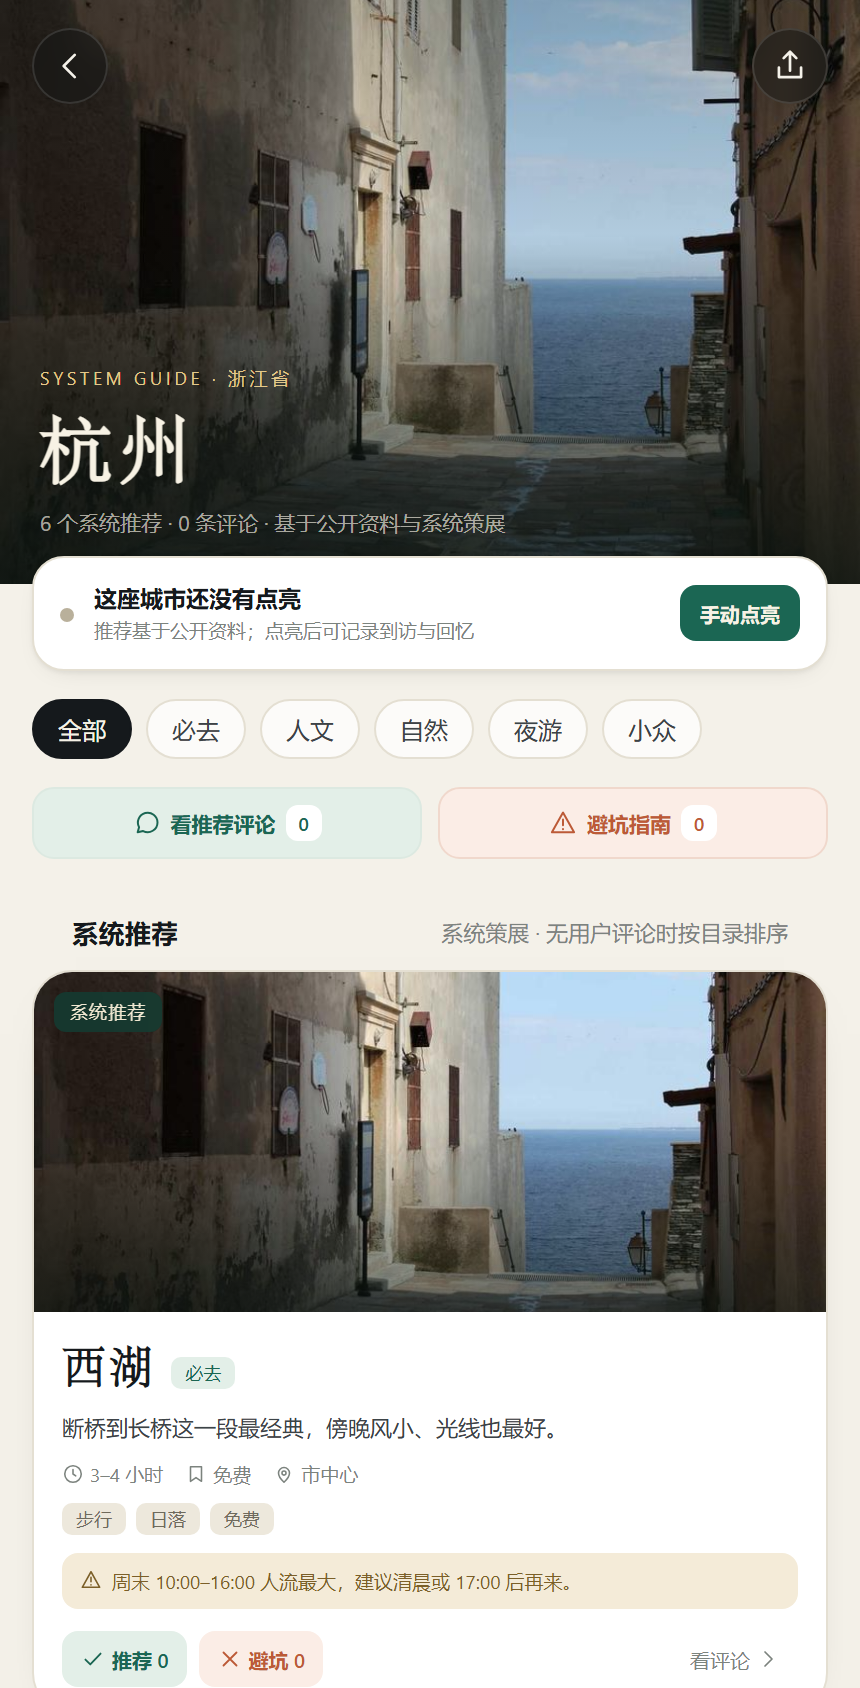
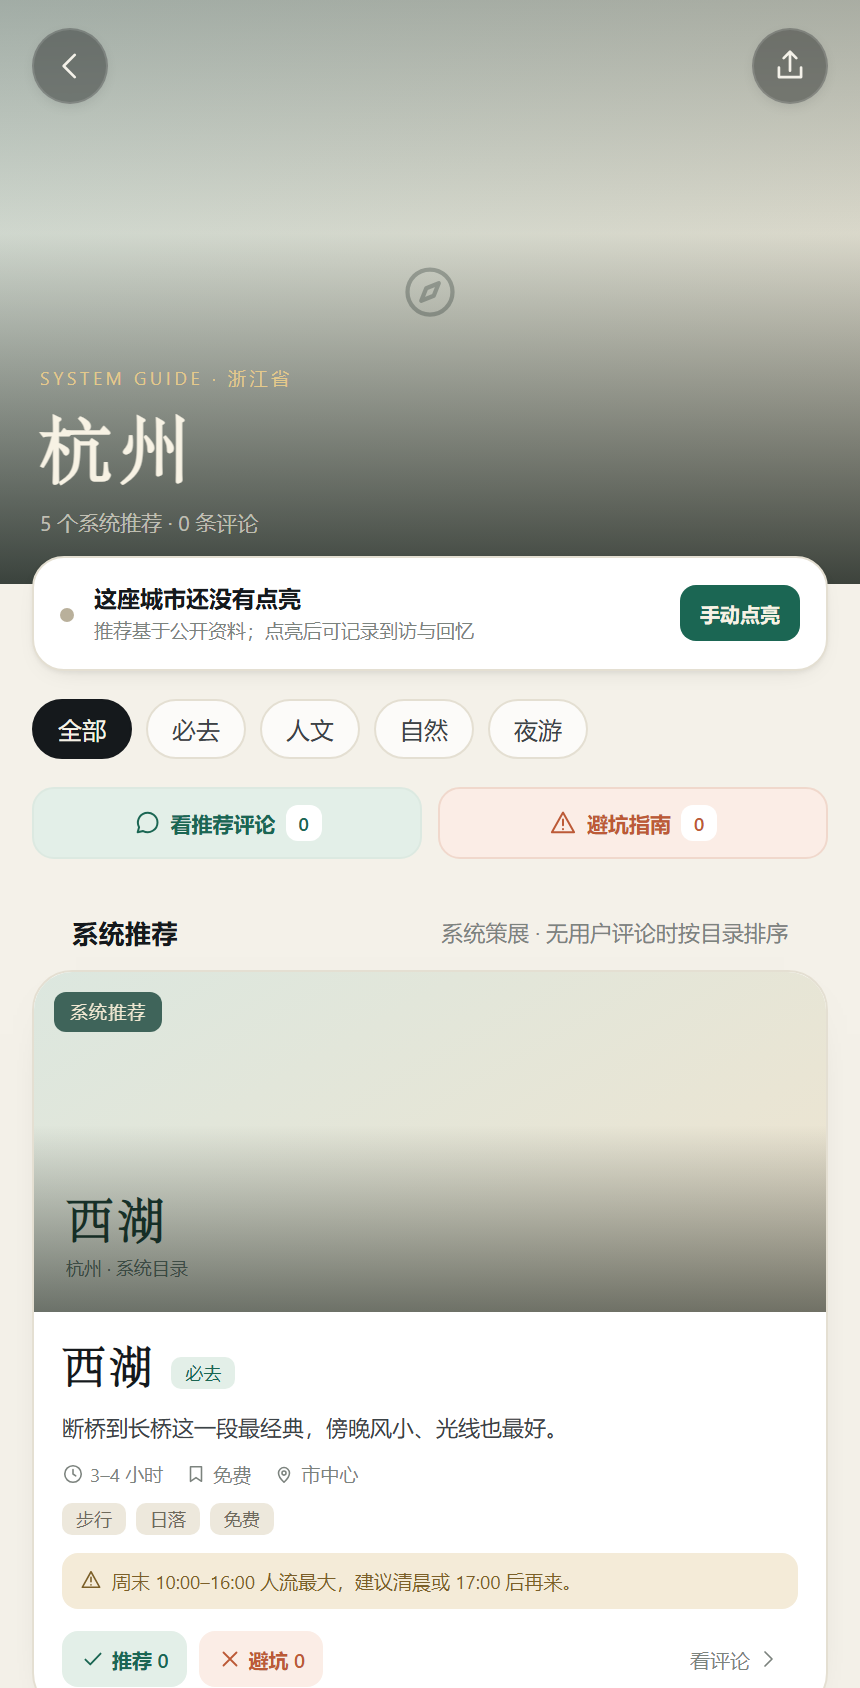
fix: only list verified scenic spots and show no recommendation for others

diff --git a/travelog-app/src/data/scenic.ts b/travelog-app/src/data/scenic.ts
@@ -64,9 +64,6 @@ const CURATED: Record<string, Curated> = {
       ['河坊街', '夜游', 8, 4.2, 1320, '1–2 小时', '免费', '全天（商铺 10:00–22:00）', '市中心',
         ['小吃', '夜逛', '老街'], '主街适合第一次来，真正好逛的是旁边的大井巷和南宋御街。',
         '主街网红小吃偏贵，想吃本地菜往小巷里走。'],
-      ['中国美院象山校区', '小众', 9, 4.7, 640, '1.5–2 小时', '免费（需预约）', '09:00–17:00', '约 12km',
-        ['建筑', '展览', '拍照'], '王澍设计的校园，砖墙和爬山虎很适合慢慢走。',
-        '展馆周一闭馆，进校需要提前预约。'],
       ['龙井村', '自然', 10, 4.4, 720, '2 小时', '免费', '全天', '约 6km',
         ['茶园', '徒步', '喝茶'], '从龙井村走到九溪，沿途是茶园和山坳，适合半日轻徒步。',
         '路边“免费喝茶”多为推销，买茶先问价。'],
@@ -249,9 +246,6 @@ const CURATED: Record<string, Curated> = {
       ['滇池海埂', '自然', 18, 4.4, 960, '2 小时', '免费', '全天', '约 12km',
         ['湖景', '海鸥', '骑行'], '海埂大坝看西山睡美人，冬天海鸥最多。',
         '风大，外套和帽子都带上。'],
-      ['斗南花市', '小众', 2, 4.6, 640, '1–2 小时', '免费', '09:00–次日 02:00', '约 15km',
-        ['鲜花', '夜市', '便宜'], '亚洲最大的鲜切花市场，晚上 8 点后交易最热闹。',
-        '买花注意能不能带上飞机/高铁。'],
     ],
   },
   '530700': {
@@ -329,9 +323,6 @@ const CURATED: Record<string, Curated> = {
       ['大峡谷玻璃桥', '亲子', 3, 4.4, 1400, '半天', '¥128', '08:30–17:00', '约 40km',
         ['玻璃桥', '峡谷', '刺激'], '桥面透明，峡谷景色不错，适合和黄龙洞串线。',
         '桥上不能带自拍杆，雨天可能关闭。'],
-      ['溪布街', '夜游', 4, 4.0, 620, '1 小时', '免费', '全天', '约 30km',
-        ['夜市', '小吃', '住宿'], '武陵源住宿区旁的商业街，晚上吃饭方便。',
-        '餐馆价格偏游客价，往巷子里走。'],
     ],
   },
   '341000': {
@@ -377,9 +368,6 @@ const CURATED: Record<string, Curated> = {
       ['橘子洲', '夜游', 10, 4.5, 1600, '2 小时', '免费', '全天', '约 3km',
         ['湘江', '烟花', '步行'], '周末烟花和青年毛泽东雕像，傍晚江风舒服。',
         '橘子洲很大，坐小火车省力。'],
-      ['太平老街', '夜游', 11, 4.1, 2200, '1–1.5 小时', '免费', '全天', '市中心',
-        ['小吃', '夜市', '人流'], '茶颜悦色和臭豆腐集中，适合晚上逛吃。',
-        '节假日人挤人，别专程排队。'],
     ],
   },
 };
@@ -414,34 +402,16 @@ function makeSpot(adcode: string, city: string, province: string, row: Row, inde
   return {
     id: `${adcode}-${index + 1}`,
     adcode, city, province, name, category,
-    image: img(image),
+    image: '',
     rating: 0, reviewCount: 0, duration, ticket, hours, distance,
     tags: [...tags], reason, tip,
   };
 }
 
-export function spotsForCity(adcode: string, city?: string, province?: string): ScenicSpot[] {
+export function spotsForCity(adcode: string, _city?: string, _province?: string): ScenicSpot[] {
   const curated = CURATED[adcode];
-  if (curated) {
-    return curated.rows.map((row, i) => makeSpot(adcode, curated.city, curated.province, row, i));
-  }
-  const name = city || cityForAdcode(adcode) || '这座城';
-  const prov = province || '';
-  const rows: Row[] = [
-    [`${name}老城`, '人文', 3, 4.4, 420, '1.5–2 小时', '免费', '全天', '市中心',
-      ['老街', '步行', '免费'], `从${name}的老街开始认识这座城，骑楼、旧店和菜市场比景区更有生活气。`,
-      '先看本地人排队的小店，再决定吃什么。'],
-    [`${name}博物馆`, '雨天', 5, 4.5, 360, '2 小时', '免费（预约）', '09:00–17:00（周一闭馆）', '约 3km',
-      ['博物馆', '室内', '亲子'], '系统默认推荐的城市博物馆，适合雨天和到达第一天。',
-      '周一闭馆，提前在官方公众号预约。'],
-    [`${name}滨水公园`, '自然', 7, 4.3, 480, '1–2 小时', '免费', '全天', '约 4km',
-      ['散步', '日落', '免费'], `沿${name}的水岸走一段，傍晚风小，适合作为一天的最后一项。`,
-      '日落时间随季节变化，提前 40 分钟到。'],
-    [`${name}本地菜市场`, '小众', 8, 4.6, 260, '1 小时', '免费', '06:00–13:00', '约 2km',
-      ['市集', '小吃', '本地'], `想快速理解${name}的口味，早上去菜市场；熟食和水果都比景区便宜。`,
-      '上午 10 点前最热闹，注意别堵住摊主通道。'],
-  ];
-  return rows.map((row, i) => makeSpot(adcode, name, prov, row, i));
+  if (!curated) return [];
+  return curated.rows.map((row, i) => makeSpot(adcode, curated.city, curated.province, row, i));
 }
 
 /**

diff --git a/travelog-app/src/screens/RecommendScreen.tsx b/travelog-app/src/screens/RecommendScreen.tsx
@@ -24,6 +24,7 @@ export function RecommendScreen() {
   const spots = useMemo(() => spotsForCity(adcode, name, province), [adcode, name, province]);
   const reviews = useMemo(() => reviewsForCity(adcode, name, province), [adcode, name, province]);
   const [filter, setFilter] = useState('全部');
+  const heroImage = spots[0]?.image ?? '';
   const cityName = spots[0]?.city ?? name;
   const categories = useMemo(() => ['全部', ...Array.from(new Set(spots.map((s) => s.category)))], [spots]);
   const filtered = filter === '全部' ? spots : spots.filter((s) => s.category === filter);
@@ -44,13 +45,13 @@ export function RecommendScreen() {
 
   const lightCity = () => {
     addManualCity(name, province, adcode);
-    toast(`${name} 已手动点亮 · 待审核`, 'pin');
+    toast(`${name} 已手动点亮`, 'pin');
   };
 
   return (
     <div className="screen rec-screen">
-      <div className="rec-hero">
-        <img src={spots[0]?.image ?? 'photos/pic04.jpg'} alt="" />
+      <div className={`rec-hero${heroImage ? '' : ' no-cover'}`}>
+        {heroImage ? <img src={heroImage} alt="" /> : <div className="rec-empty-cover"><Icon name="compass" size={30} /></div>}
         <div className="rec-scrim" />
         <div className="rec-nav">
           <button className="iconbtn dark" onClick={backToMap} aria-label="返回地图">
@@ -63,7 +64,7 @@ export function RecommendScreen() {
         <div className="rec-hero-text">
           <div className="k">SYSTEM GUIDE · {province || '城市推荐'}</div>
           <h1>{cityName}</h1>
-          <p>{spots.length} 个系统推荐 · {reviews.length} 条评论 · 基于公开资料与系统策展</p>
+          <p>{spots.length ? `${spots.length} 个系统推荐` : '系统暂无推荐'} · {reviews.length} 条评论</p>
         </div>
       </div>
 
@@ -86,6 +87,17 @@ export function RecommendScreen() {
           )}
         </div>
 
+        {spots.length === 0 ? (
+          <div className="rec-no-spots">
+            <div className="ic"><Icon name="compass" size={28} /></div>
+            <h2>系统暂无推荐</h2>
+            <p>这座城市还没有经过核验的景区目录。等真实旅行者的推荐积累起来后，我们再把它纳入系统推荐。</p>
+            <button className="btn ghost" onClick={() => navigate(`/discover?tab=recommend&city=${encodeURIComponent(name)}&adcode=${adcode}`)}>
+              <Icon name="message" size={14} />去发现页看看用户推荐
+            </button>
+          </div>
+        ) : (
+          <>
         <div className="chips rec-chips">
           {categories.map((c) => (
             <button key={c} className={`chip${filter === c ? ' on' : ''}`} onClick={() => setFilter(c)}>{c}</button>
@@ -110,7 +122,12 @@ export function RecommendScreen() {
           {filtered.map((spot) => (
             <article className="spot-card" key={spot.id}>
               <div className="spot-img">
-                <img src={spot.image} alt={spot.name} />
+                {spot.image ? <img src={spot.image} alt={spot.name} /> : (
+                  <div className="spot-img-empty">
+                    <b>{spot.name}</b>
+                    <span>{spot.city} · 系统目录</span>
+                  </div>
+                )}
                 <div className="spot-veil" />
                 <span className="spot-badge">系统推荐</span>
               </div>
@@ -180,16 +197,20 @@ export function RecommendScreen() {
         <p className="rec-note">
           系统推荐综合公开资料整理；评论只在你或他人真实发布后出现。营业时间、票价可能调整，出发前请再确认。
         </p>
+          </>
+        )}
       </div>
 
-      <div className="rec-sticky">
-        <button className="rec-cta" onClick={() => goDiscover('recommend')}>
-          <span>推荐与评论</span><b>{recommendCount}</b>
-        </button>
-        <button className="rec-cta avoid" onClick={() => goDiscover('avoid')}>
-          <span>避坑指南</span><b>{avoidCount}</b>
-        </button>
-      </div>
+      {spots.length > 0 ? (
+        <div className="rec-sticky">
+          <button className="rec-cta" onClick={() => goDiscover('recommend')}>
+            <span>推荐与评论</span><b>{recommendCount}</b>
+          </button>
+          <button className="rec-cta avoid" onClick={() => goDiscover('avoid')}>
+            <span>避坑指南</span><b>{avoidCount}</b>
+          </button>
+        </div>
+      ) : null}
     </div>
   );
 }

diff --git a/travelog-app/src/styles/additions.css b/travelog-app/src/styles/additions.css
@@ -702,6 +702,27 @@ button.mem-feature{
 }
 .rec-empty b{ font-size: 11px; color: var(--ink); }
 .rec-empty p{ font-size: 9px; line-height: 1.55; margin: 0; max-width: 250px; }
+.rec-hero.no-cover{ background: linear-gradient(145deg, #DCE7DF, #F1E9D8); }
+.rec-empty-cover{ position: absolute; inset: 0; display: grid; place-items: center; color: rgba(20,37,31,.28); }
+.rec-no-spots{
+  display: flex; flex-direction: column; align-items: center; text-align: center;
+  gap: 7px; margin: 26px 20px; padding: 30px 22px;
+  background: #FBFAF5; border: 1px solid var(--line); border-radius: 20px;
+}
+.rec-no-spots .ic{
+  width: 54px; height: 54px; border-radius: 17px; display: grid; place-items: center;
+  background: var(--paper-2); color: var(--muted);
+}
+.rec-no-spots h2{ font-family: var(--serif); font-size: 21px; margin: 4px 0 0; }
+.rec-no-spots p{ font-size: 10.5px; line-height: 1.7; color: var(--muted); max-width: 260px; margin: 0 0 8px; }
+.rec-no-spots .btn{ height: 38px; padding: 0 14px; font-size: 10px; gap: 5px; }
+.spot-img-empty{
+  position: absolute; inset: 0; display: flex; flex-direction: column;
+  align-items: flex-start; justify-content: flex-end; padding: 16px;
+  background: linear-gradient(150deg, #DCE7DF, #EFE4CF);
+}
+.spot-img-empty b{ font-family: var(--serif); font-size: 24px; color: #1C3A30; letter-spacing: .06em; }
+.spot-img-empty span{ font-size: 9px; color: #61736A; margin-top: 2px; }
 .share-check .miss{ color: var(--clay); }
 .empty .btn.sm{ height: 34px; padding: 0 14px; font-size: 10px; gap: 5px; }
 

diff --git a/travelog-app/src/data/scenic.test.ts b/travelog-app/src/data/scenic.test.ts
@@ -4,16 +4,14 @@ import { adcodeForCity, reviewsForCity, spotsForCity } from './scenic';
 describe('scenic recommendations', () => {
   it('returns curated Hangzhou spots first', () => {
     const spots = spotsForCity('330100', '杭州', '浙江省');
-    expect(spots).toHaveLength(6);
+    expect(spots).toHaveLength(5);
     expect(spots[0].name).toBe('西湖');
     expect(spots[0].city).toBe('杭州');
   });
 
-  it('falls back to four generated spots for an uncurated city', () => {
+  it('returns no system recommendation for an uncurated city', () => {
     const spots = spotsForCity('440600', '佛山', '广东省');
-    expect(spots).toHaveLength(4);
-    expect(spots.map((s) => s.name)).toContain('佛山老城');
-    expect(spots.every((s) => s.adcode === '440600')).toBe(true);
+    expect(spots).toHaveLength(0);
   });
 
   it('starts with no preloaded user reviews', () => {

diff --git a/travelog-app/README.md b/travelog-app/README.md
@@ -112,8 +112,10 @@ python scripts/generate-province-geo.py
   开放时间、距离、适合标签与避坑提示。
 - 推荐页每张卡都有「推荐 N / 避坑 N / 看评论」，可带 `spot` 参数跳到发现页对应口碑。
 - 发现页新增 **推荐 / 避坑** 两个 Tab，按城市与景区过滤；评论卡可回到景区推荐页。
-- 数据在 `src/data/scenic.ts`：20 个城市精选景区，其余城市用通用模板兜底。**评论默认空**，
-  新用户不会看到任何预置推荐/避坑评论；只有真实发布后才会出现。
+- 数据在 `src/data/scenic.ts`：只保留 20 个有可靠景区目录的城市；**没有收录的城市直接显示
+  「系统暂无推荐」**，不再生成“老城 / 博物馆 / 菜市场”等通用兜底景点。等真实用户推荐积累后
+  再纳入系统推荐。评论默认空，新用户不会看到任何预置推荐/避坑评论。
+- 系统推荐不配无关占位图，避免把国外海岸照片标成杭州；卡片用景点名与目录信息排版。
 - 直达：`/discover?tab=recommend&city=杭州&adcode=330100&spot=西湖`。
 
 ## 测试
@@ -124,7 +126,7 @@ pnpm test
 
 城市搜索单测覆盖：拼音前缀（`da` 只出大理/大连，不误命中青岛）、省份（云南 5 城）、
 精确名称优先、无结果、城市索引数量。省级匹配单测覆盖：全名/简称、自治州前缀、adcode、未点亮。
-景区单测覆盖：精选城市、通用城市兜底、**默认无预置评论**、城市 adcode 映射。
+景区单测覆盖：精选城市、**未收录城市无推荐**、**默认无预置评论**、城市 adcode 映射。
 注册单测覆盖：账号创建、资料完成、localStorage 持久化、退出登录。
 
 当前结果：**17 passed**。TypeScript `tsc --noEmit` 无错误，`vite build` 通过。
@@ -224,6 +226,7 @@ travelog-app/
 ![同城大厅空白状态](screenshots/36-share-hall-empty.png)
 ![AI 未接实时数据](screenshots/37-ai-empty.png)
 ![景区推荐无评论](screenshots/38-recommend-empty.png)
+![系统暂无推荐](screenshots/39-no-recommend.png)
 ![注册登录](screenshots/18-welcome.png)
 ![资料填写](screenshots/19-profile.png)
 ![选择点亮城市](screenshots/20-city.png)

diff --git a/AGENTS.md b/AGENTS.md
@@ -8,6 +8,8 @@
 - 每个页面必须单独实现空状态，并给出真实可执行的下一步入口。
 - 城市索引、景区目录、地图 GeoJSON 属于系统内容，可以存在；但它们不得携带用户历史，
   景区评论默认也必须为空。
+- 景区推荐只收录真实、有当地旅游特色的景点；不得用「老城 / 博物馆 / 滨水公园 / 菜市场」
+  等通用模板兜底。没有可靠目录的城市直接显示「系统暂无推荐」，等真实用户推荐积累后再收录。
 - AI 未接真实数据时必须明确说明，不得生成虚构路线、餐厅、客流或营业时间。
 - 后端默认 `travelog.seed-demo=false`；只有测试或显式接口契约演示才允许开启。
 - 修改任何页面前先检查：新账号进入该页时是否仍为空、空状态是否可见。
